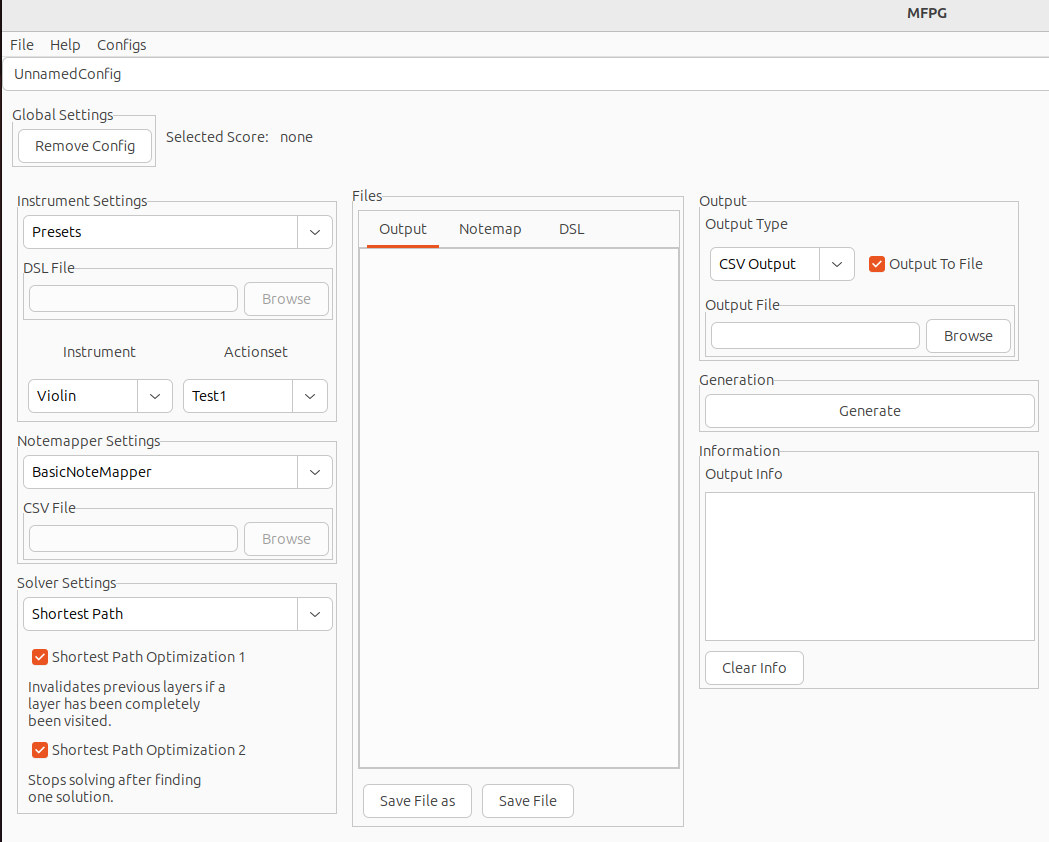
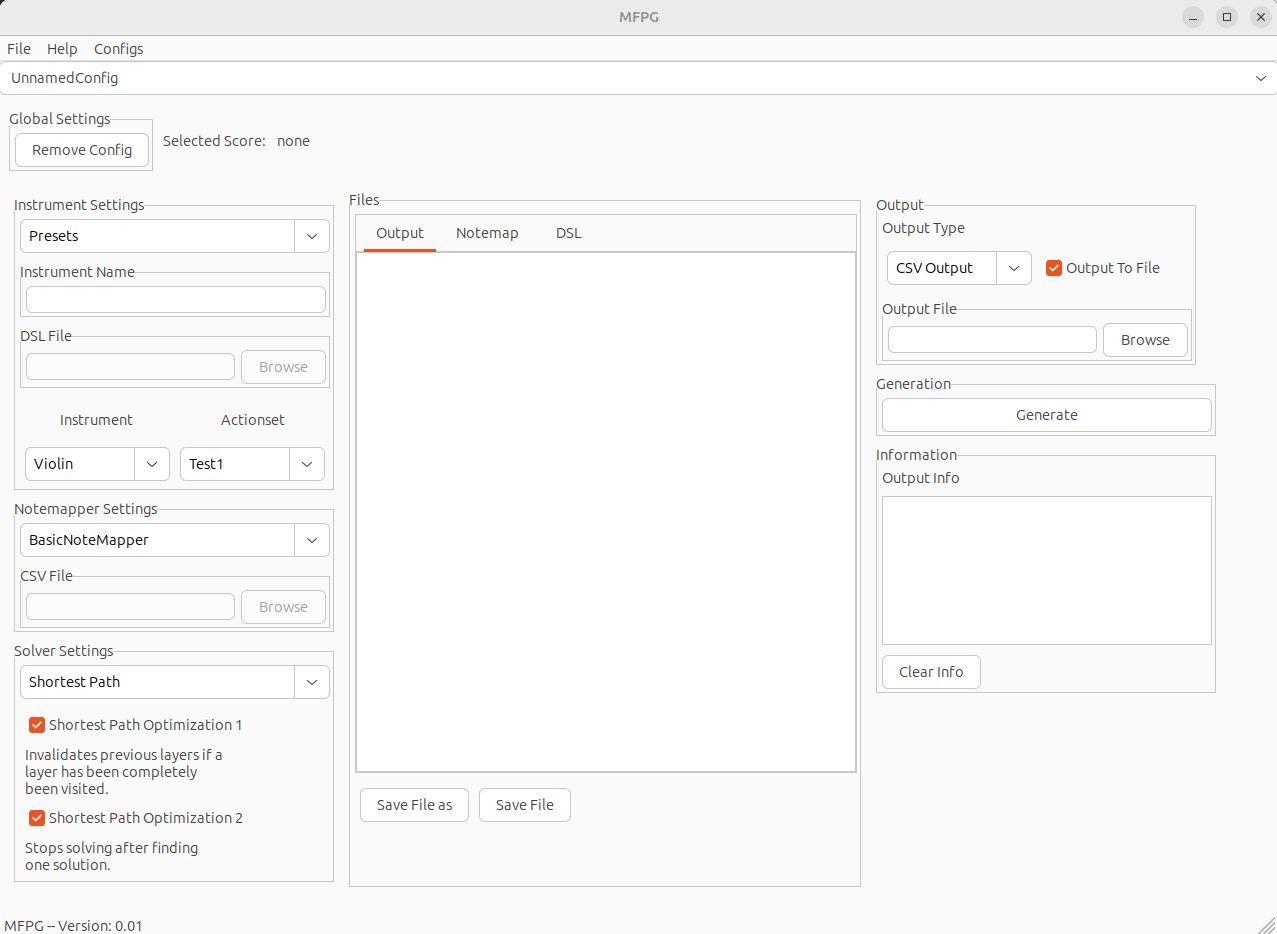
Updates GUI again, as well as the easy example and the CLI guide to reference the new addition of the instrument name.

diff --git a/webdocs/mfpg/guides/example-easy.html b/webdocs/mfpg/guides/example-easy.html
@@ -196,14 +196,18 @@
         </p>
         <a class="anchor" id="Instrument"></a>
         <h2>Instrument and Actionset</h2>
-        <p>
-          For this section we will be using the <b>MFPG DSL</b>. In order for the
-          program know which notes can be played on which strings of the instrument, 
+        <p> First, let us specify the name of the instrument
+          we are using, this instrument name must correspond to the name of the instrument part in 
+          the score file. The only instrument in the example file we are going to use will be
+          the violin with the name <b>Violin</b>, so we will write that as our instrument name.</p>
+          </p>Next, in order for the
+          program know which notes can be played on which strings of the instrument
           it must be told the specifics of the instrument by the user. We must also
           define what is called an <b>Actionset</b> which will contain the
           preferences of the user when it comes to deciding which fingering position
           is superior when there is a choice between multiple fingering positions when
-          playing a note. We are going to start with a premade <b>DSL</b> file
+          playing a note. For both these purposes we will be using the <b>MFPG DSL </b>.
+          We are going to start with a premade <b>DSL</b> file
           and make some adjustments. In order to get an understanding on how the 
           <b>MFPG DSL</b> files are written and the syntax of the <b>DSL</b> you
           should read the <a href="/mfpg/guides/dslguide">DSL Guide</a>.
@@ -217,8 +221,8 @@
           </a>. Once the file
           has been downloaded the file can be selected by switching the <i>
             Instrument Settings</i> to <i>DSL File</i> and then selecting the file
-          in the file selector underneath. Before we make any modifications to 
-          the <b>DSL</b> file, let us set up the rest of the
+          in the file selector underneath. 
+          Before we make any modifications to the <b>DSL</b> file, let us set up the rest of the
           settings to make it easier to test the modifications we make later on.
         </p>
         <a class="anchor" id="Tidbits"></a>

diff --git a/webdocs/mfpg/guides/cliguide.html b/webdocs/mfpg/guides/cliguide.html
@@ -129,6 +129,7 @@
         <li><strong>-d dsl_file</strong> or <strong>--dsl=dsl_file</strong>: Use an instrument defined in the DSL_file instead of the default one.</li>
         <li><strong>-t integer</strong> or <strong>--test=integer</strong>: Use a test configuration (1 or 2), these are two instrument configurations hardcoded into the program and used to test various parts.</li>
         <li><strong>-n notemapper_csv_file</strong> or <strong>--notemapper=notemapper_csv_file</strong>: Directs the program to use the CSVNoteMapper using the notemapper_csv_file supplied as the notemapper instead of the hardcoded one.</li>
+        <li><strong>-i instrument_name</strong> or <strong>--instrument=instrument_name</strong>: Specify the name of the instrument as presented in the score. This could be something like "Violin 1" or "Viola". Defaults to "Violin".</li>
         <li><strong>--interactive</strong>: Rudimentary interactive mode which is used to explore transitions of a constructed layerlist. Primarily used for debugging.</li>
         </ul>
       </div>
